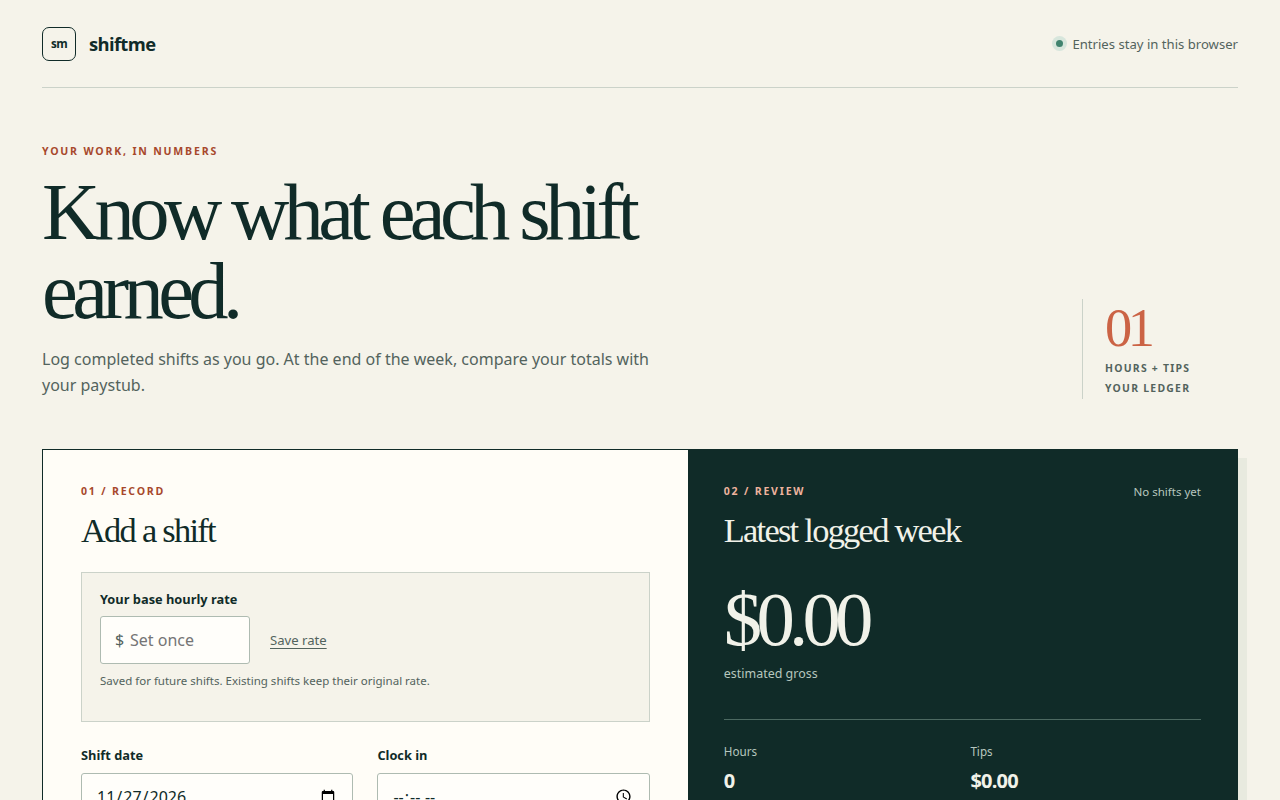
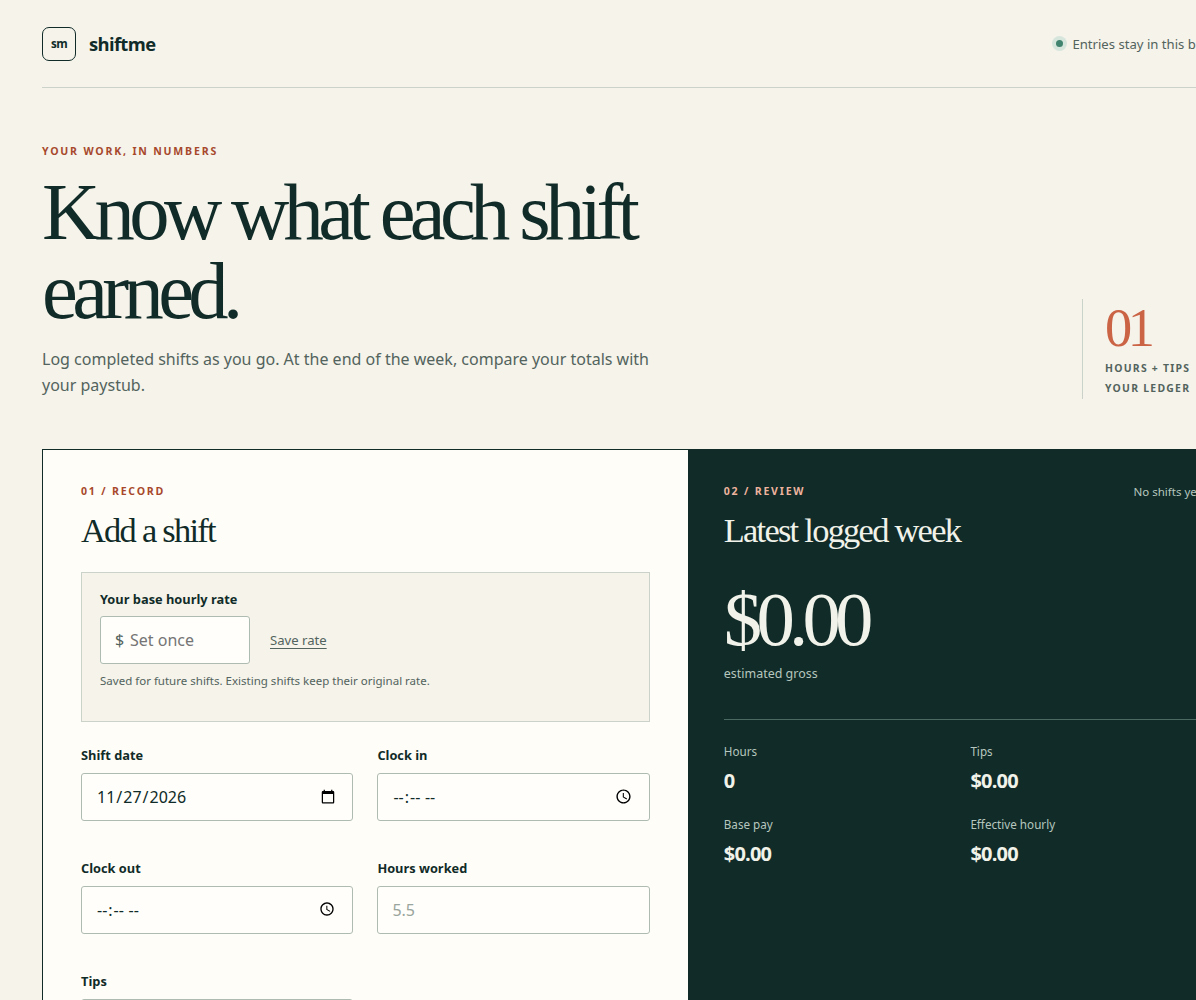
flatten the open sheet and fill the desk

diff --git a/prototypes/workbench/styles.css b/prototypes/workbench/styles.css
@@ -93,19 +93,18 @@ h1, h2, .name, .who, .lede, .note-line { font-family: "Fraunces", Georgia, serif
   z-index: 1;
   height: 100%;
   perspective: 1600px;
-  perspective-origin: 50% 0%;
+  perspective-origin: 50% 46%;
   display: flex;
-  align-items: flex-start;
+  align-items: center;
   justify-content: center;
-  padding: 40px 3vw 0;
+  padding: 36px 2vw 20px;
   overflow: hidden;
 }
 .scene {
-  width: min(1120px, 78vw);
-  height: 84%;
-  margin-top: -4%;
-  transform: rotateX(50deg);
-  transform-origin: center 38%;
+  width: min(1100px, 76vw);
+  height: 92%;
+  transform: rotateX(48deg);
+  transform-origin: center 50%;
   transform-style: preserve-3d;
   display: flex;
   flex-direction: column;
@@ -165,8 +164,10 @@ h1, h2, .name, .who, .lede, .note-line { font-family: "Fraunces", Georgia, serif
   filter: blur(16px);
   transform: translate(26px, 40px) scale(1.04);
 }
-.seat.lifted .shade.contact { transform: translate(16px, 28px) scale(1.06); filter: blur(10px); opacity: 0.7; }
-.seat.lifted .shade.ambient { transform: translate(40px, 64px) scale(1.12); filter: blur(22px); opacity: 0.85; }
+.seat.lifted .shade.contact,
+.seat:hover .shade.contact { transform: translate(22px, 36px) scale(1.12); filter: blur(14px); opacity: 0.55; }
+.seat.lifted .shade.ambient,
+.seat:hover .shade.ambient { transform: translate(48px, 78px) scale(1.2); filter: blur(26px); opacity: 0.7; }
 
 .object {
   position: relative;
@@ -189,7 +190,10 @@ h1, h2, .name, .who, .lede, .note-line { font-family: "Fraunces", Georgia, serif
   transition: transform .5s cubic-bezier(.2, 1.3, .36, 1);
 }
 .rest .object { min-height: 168px; padding: 14px; }
-.object:hover, .object:focus-visible { outline: 2px solid var(--ink); outline-offset: 5px; }
+html:not(.motion-off) .seat:hover .object,
+html:not(.motion-off) .seat:focus-within .object {
+  transform: rotateZ(var(--rot)) translateZ(90px) rotateX(6deg);
+}
 
 .tab {
   align-self: flex-start;
@@ -396,7 +400,7 @@ html.motion-off *::after {
   height: min(620px, calc(100vh - 88px));
   display: flex;
   flex-direction: column;
-  transform: rotateX(16deg);
+  transform: rotateX(0deg);
   transform-origin: center center;
   background:
     linear-gradient(160deg, rgba(255, 255, 255, 0.7), transparent 30%),
@@ -433,18 +437,64 @@ html.motion-off *::after {
   padding: 0;
 }
 .poster, .screen iframe {
+  position: absolute;
+  inset: 0;
   width: 100%;
   height: 100%;
+  max-width: none;
   object-fit: cover;
-  object-position: top center;
+  object-position: left top;
   border: 0;
   background: white;
 }
-.sheet-plain { height: min(520px, calc(100vh - 120px)); }
-.plain { flex: 1; min-height: 0; display: flex; flex-direction: column; justify-content: center; }
-.lede.big { font-size: clamp(2.4rem, 4vw, 3.6rem); max-width: 16ch; margin: 18px 0 0; line-height: 1.05; }
-.sheet-plain .stamps-open { flex: 1; align-items: stretch; }
-.sheet-plain .stamp { min-height: 0; height: 100%; font-size: 1.6rem; }
+.sheet-plain { height: min(620px, calc(100vh - 88px)); }
+.note-page {
+  background:
+    linear-gradient(#fbf7f0, #fbf7f0) 0 0 / 100% 42px content-box,
+    repeating-linear-gradient(180deg, transparent 0 41px, rgba(30, 78, 204, 0.18) 41px 42px);
+  padding-top: 8px;
+}
+.plain { flex: 1; min-height: 0; display: flex; flex-direction: column; }
+.lede.big { font-size: clamp(2.2rem, 3.6vw, 3.2rem); max-width: 18ch; margin: 8px 0 18px; line-height: 1.12; }
+.chip-label {
+  margin: 8px 0 8px;
+  font-size: 0.75rem;
+  letter-spacing: 0.14em;
+  text-transform: uppercase;
+}
+.chips { display: flex; flex-wrap: wrap; gap: 10px; }
+.chip {
+  display: inline-flex;
+  align-items: center;
+  padding: 10px 14px;
+  background: var(--paper);
+  color: var(--ink);
+  text-decoration: none;
+  border: 1px solid rgba(18, 18, 18, 0.35);
+  font-family: "Fraunces", serif;
+  font-size: 1.15rem;
+}
+.chip:hover { background: var(--ink); color: var(--cream); }
+.contact-links { display: flex; flex-flow: row wrap; align-items: center; gap: 12px; margin-top: 28px; }
+.contact-links a {
+  display: inline-flex;
+  align-items: center;
+  gap: 10px;
+  padding: 10px 14px;
+  border: 1.5px solid var(--ink);
+  text-decoration: none;
+  background: var(--cream);
+  color: var(--ink);
+}
+.contact-links a span {
+  display: grid;
+  place-items: center;
+  width: 1.6em;
+  height: 1.6em;
+  background: var(--yellow);
+  font-size: 0.85rem;
+}
+.contact-links a:hover { background: var(--ink); color: var(--cream); }
 .actions { display: flex; flex-wrap: wrap; gap: 12px 16px; align-items: center; }
 .actions button {
   background: var(--orange);
@@ -502,7 +552,7 @@ html.motion-off *::after {
 .index-view h1 { font-size: 2.6rem; letter-spacing: -0.03em; }
 
 @media (max-width: 1320px), (max-height: 820px) {
-  .scene { width: min(1020px, 80vw); height: 86%; padding: 14px 16px 20px; gap: 10px; }
+  .scene { width: min(1040px, 80vw); height: 96%; transform: rotateX(48deg); padding: 12px 14px 16px; gap: 10px; }
   .object { min-height: 0; }
   .rest .object { min-height: 0; }
   .day { font-size: 0.55rem; }

diff --git a/prototypes/workbench/app.js b/prototypes/workbench/app.js
@@ -35,11 +35,7 @@ function objectBody(item) {
   const project = byId[item.id];
   if (item.kind === 'timecard') {
     const days = ['mon', 'tue', 'wed', 'thu', 'fri', 'sat', 'sun'];
-    const punches = [
-      ['9:02', '5:11'], ['8:54', '4:48'], ['9:16', '6:02'], ['9:00', '5:30'],
-      ['8:47', '4:55'], ['10:12', '3:40'], ['—', '—'],
-    ];
-    const cols = days.map((day, i) => `<span class="day"><b>${day}</b><span>in ${punches[i][0]}</span><span>out ${punches[i][1]}</span></span>`).join('');
+    const cols = days.map((day) => `<span class="day"><b>${day}</b><span>in —</span><span>out —</span></span>`).join('');
     return `<span class="notch" aria-hidden="true"></span>
       <span class="name">${esc(project.name)}</span>
       <span class="blurb">${esc(project.description)}</span>
@@ -143,23 +139,27 @@ function sheetHTML(current) {
     return `<article class="sheet">${back}${projectSheet(project)}</article>`;
   }
   if (current === 'work') return `<article class="sheet">${back}${workOverview()}</article>`;
+  const chips = `<p class="chip-label">what I'm working on</p>
+      <div class="chips">${projects.map((p) => `<a class="chip" href="#work/${esc(p.id)}">${esc(p.name)}</a>`).join('')}</div>`;
   if (current === 'now') {
     return `<article class="sheet sheet-plain">${back}
-      <div class="plain">
+      <div class="plain note-page">
         <p class="tab now"><span aria-hidden="true">◆</span> now</p>
-        <h2 id="panel-title" tabindex="-1">now</h2>
+        <h2 id="panel-title" tabindex="-1">this week</h2>
         <p class="draft">draft copy</p>
         <p class="lede big">${esc(sections.now)}</p>
+        ${chips}
       </div>
     </article>`;
   }
   if (current === 'about') {
     return `<article class="sheet sheet-plain">${back}
-      <div class="plain">
+      <div class="plain note-page">
         <p class="tab about"><span aria-hidden="true">●</span> about</p>
         <h2 id="panel-title" tabindex="-1">about</h2>
         <p class="draft">draft copy</p>
         <p class="lede big">${esc(sections.about)}</p>
+        ${chips}
       </div>
     </article>`;
   }
@@ -168,10 +168,10 @@ function sheetHTML(current) {
       <div class="plain">
         <p class="tab contact"><span aria-hidden="true">■</span> contact</p>
         <h2 id="panel-title" tabindex="-1">contact</h2>
-        <div class="stamps-open">
-          <a class="stamp" href="${esc(contact.x)}"><span>X</span>X</a>
-          <a class="stamp" href="mailto:${esc(contact.email)}"><span>email</span>${esc(contact.email)}</a>
-          <a class="stamp" href="${esc(contact.linkedin)}"><span>LinkedIn</span>LinkedIn</a>
+        <div class="contact-links">
+          <a href="${esc(contact.x)}"><span aria-hidden="true">x</span> X</a>
+          <a href="mailto:${esc(contact.email)}"><span aria-hidden="true">@</span> ${esc(contact.email)}</a>
+          <a href="${esc(contact.linkedin)}"><span aria-hidden="true">in</span> LinkedIn</a>
         </div>
       </div>
     </article>`;
@@ -211,7 +211,7 @@ function anchorId(current) {
 }
 
 function flyFrom(card, sheet) {
-  const rest = 'rotateX(16deg)';
+  const rest = 'rotateX(0deg)';
   if (!sheet) return;
   if (motionOff || !card) {
     sheet.style.transition = 'none';
@@ -252,13 +252,13 @@ function bindTilt(el) {
     const py = (clientY - (r.top + r.height / 2)) / (r.height / 2);
     const ry = Math.max(-6, Math.min(6, px * 6));
     const rx = Math.max(-6, Math.min(6, -py * 6));
-    el.style.transform = `rotateZ(var(--rot)) translateZ(42px) rotateX(${rx}deg) rotateY(${ry}deg)`;
+    el.style.transform = `rotateZ(var(--rot)) translateZ(90px) rotateX(${rx}deg) rotateY(${ry}deg)`;
     seatEl.classList.add('lifted');
   };
   el.addEventListener('pointermove', (e) => tilt(e.clientX, e.clientY));
   el.addEventListener('pointerleave', rest);
   el.addEventListener('focus', () => {
-    el.style.transform = 'rotateZ(var(--rot)) translateZ(42px) rotateX(4deg)';
+    el.style.transform = 'rotateZ(var(--rot)) translateZ(64px) rotateX(4deg)';
     seatEl.classList.add('lifted');
   });
   el.addEventListener('blur', rest);
@@ -268,6 +268,9 @@ scene.querySelectorAll('.object').forEach(bindTilt);
 
 let booted = false;
 let returnFocus = null;
+let fromKeyboard = false;
+addEventListener('keydown', () => { fromKeyboard = true; }, true);
+addEventListener('pointerdown', () => { fromKeyboard = false; }, true);
 
 function sync(fromUser) {
   const current = route();
@@ -285,7 +288,7 @@ function sync(fromUser) {
   });
   document.title = (current ? `${current} — ` : '') + 'Workbench — Jack Long';
   if (open) flyFrom(document.getElementById(anchorId(current)), panel.querySelector('.sheet'));
-  if (booted && fromUser !== false && open) panel.querySelector('.sheet-bar a')?.focus();
+  if (booted && fromUser !== false && open && fromKeyboard) panel.querySelector('.sheet-bar a')?.focus();
   booted = true;
 }
 
